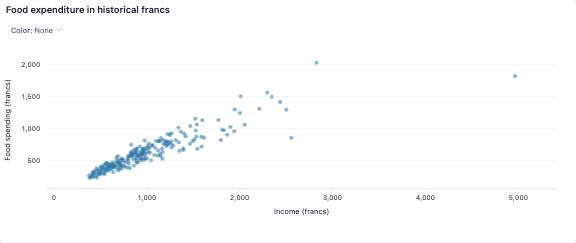
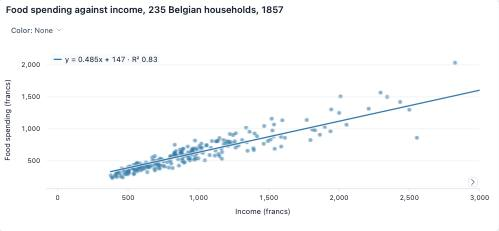
feat(daily): rewrite the Engel notebooks around Engel's law and weighting

diff --git a/apps/demo/public/daily-viz/projects/engel/weighting.eda.md b/apps/demo/public/daily-viz/projects/engel/weighting.eda.md
@@ -1,66 +1,51 @@
 # Food took 64% of all income, but more of the typical household's
 
-**Does the food share change when you weight by francs instead of households?** Each row is one income quartile.
+**What share of income went to food: 64% or 66%?** Each row is one income quartile of the 235 Belgian households in the 1857 Engel survey, with the quartile's total income, total food spending, and mean household food share. Pool every franc and food took 63.53% of income. Average the households and the mean food share was 65.58%. The two-point gap is the richest quartile's weight.
 
 ```eda
 eda query=bands
-income_band:cat=bands.income_band label="Income band"
+income_band:cat=bands.income_band label="Income quartile"
 households:num=bands.households label="Households"
 income_sum:num=bands.income_sum label="Total income (francs)"
 food_sum:num=bands.food_sum label="Total food spending (francs)"
-mean_share:num=bands.mean_share label="Mean share (%)"
-weighted_share:num=bands.weighted_share label="Weighted share (%)"
-order:num=bands.order label="Order"
+mean_share:num=bands.mean_share label="Mean household share (%)"
+weighted_share:num=bands.weighted_share label="Pooled share (%)"
+order:num=bands.order label="Quartile (1 = poorest)"
 ```
 
-## 1. Two legitimate shares for each income group
+## Inside a quartile, weighting barely matters
 
-Compare an equally weighted household mean with the group’s pooled-franc ratio. Their difference is about weights, not rounding.
+Two shares per quartile: the mean of its households' shares, and its pooled food francs over its pooled income francs. The lines almost coincide. In the poorest quartile the mean household share was 69.73%; in the richest it was 60.11%, and the richest quartile's pooled share was 58.85%. The gap opens only at the top, where incomes spread out.
 
 ```eda
-scatter @nb-engel-weighting-chart-1 x=mean_share y=weighted_share color=income_band title="Two legitimate shares for each income group" x.title="Mean share (%)" y.title="Weighted share (%)"
+line @nb-engel-weighting-chart-1 x=order y=mean_share,weighted_share title="Food share by income quartile, two ways of averaging" x.title="Income quartile (1 = poorest)" x.ticks=4 y.title="Food share of income (%)" {
+  rule y=63.53 "All households pooled"
+}
 ```
 
-## 2. Follow the groups from lower to higher income
+## The richest quarter held 42% of the francs
 
-The ordered line makes the comparison compact. The horizontal steps are quartile positions, not equal intervals of income.
+The pooled share is an income-weighted average, and here is the weighting. The richest quartile earned 42.12% of all income in the survey but spent 39.02% of all food francs. Pooling the whole survey hands that quartile, with the lowest food share, three times the weight of the poorest.
 
 ```eda
-line @nb-engel-weighting-chart-2 x=order y=mean_share,weighted_share title="Follow the groups from lower to higher income" x.title="Order" y.title="Mean share (%) / Weighted share (%)"
+group @income sum(income_sum) by=income_band
+row @nb-engel-weighting-chart-2 income_band group=income title="Total income by quartile, 235 households" x.title="Total income (francs)" {
+  callout "42% of all income" category="Q4 highest income" offset=-110,44
+}
 ```
 
-**Finding.** Food expenditure divided by pooled income was 63.53%.
+## The four rows that make the argument
 
-## 3. The denominators behind the ratio
-
-The group totals explain why a pooled ratio cannot be obtained by taking an unweighted mean of the four displayed ratios.
+Every number above comes from these four rows. Divide each quartile's food total by its income total to recover its pooled share; divide the grand totals to get 63.53%.
 
 ```eda
-scatter @nb-engel-weighting-chart-3 x=income_sum y=food_sum color=income_band title="The denominators behind the ratio" x.title="Total income (francs)" y.title="Total food spending (francs)"
-```
-
-## 4. How many households contribute to each group?
-
-Nearly equal group sizes are a consequence of the quartile construction. Exact counts remain necessary when reconstructing the household-weighted overall mean.
-
-```eda
-scatter @nb-engel-weighting-chart-4 x=order y=households title="How many households contribute to each group?" x.title="Order" y.title="Households"
-```
-
-**Finding.** The household-count-weighted mean of the quartile household means was 65.58%.
-
-## 5. The rows behind the charts
-
-Sort a column or select rows to check any value above. Selections in a notebook stay with their own chart.
-
-```eda
-table @nb-engel-weighting-records income_band,households,income_sum,food_sum,mean_share,weighted_share title="Records behind this comparison"
+table @nb-engel-weighting-chart-3 income_band,households,income_sum,food_sum,mean_share,weighted_share title="Income quartiles of the 1857 Engel survey"
 ```
 
 ## Takeaway
 
-A change of weights is a change of question. State the denominator on the chart and retain group totals so the weighted rate can be reconstructed rather than averaged incorrectly.
+Food took 64% of the survey's income and 66% of a typical household's: the difference is whether a rich household counts once or by its francs. Report the one that matches the question, and say which it is.
 
 ## Limits
 
-The grouping is based on sample income quartiles. Income-weighted ratios do not measure a typical household, while equally weighted means do not describe the allocation of all pooled income.
+Four summary rows of a 235-household survey. Quartiles are cut on this sample's incomes, with 58 or 59 households each. No prices, household sizes, or non-food categories are recorded.

diff --git a/apps/demo/public/daily-viz/projects/engel/food-and-income.eda.md b/apps/demo/public/daily-viz/projects/engel/food-and-income.eda.md
@@ -1,63 +1,45 @@
-# Food spending can rise while its income share falls
+# Food took 70% of a poor household's income and 62% of a rich one's
 
-**How do absolute food spending and the food budget share differ across these households?** Each row is one surveyed working-class household.
+**Do richer households spend more on food, or less?** Each row is one of 235 working-class Belgian households from an 1857 survey, with its yearly income and food spending in francs. Both answers are true, and that is Engel's law: richer households spent more francs on food and a smaller share of their income on it.
 
 ```eda
 eda query=r
 income:num=r.income label="Income (francs)"
 foodexp:num=r.foodexp label="Food spending (francs)"
-food_share:num=r.food_share label="Food share (%)"
-income_band:cat=r.income_band label="Income band"
+food_share:num=r.food_share label="Food share of income (%)"
+income_band:cat=r.income_band label="Income quartile"
 ```
 
-## 1. Food expenditure in historical francs
+## Every extra franc of income bought more food
 
-Both axes preserve the recorded monetary scale. More spending does not necessarily mean a larger fraction of the household budget.
+Each point is one household. The cloud follows the fitted line closely: income and food spending had correlation 0.911. The median household spent 583 francs on food in a year; the biggest food budget was 2,033 francs. The axis stops at 3,000 francs of income, which puts 1 household, the richest at 4,958 francs, off the right edge.
 
 ```eda
-scatter @nb-engel-food-and-income-chart-1 x=income y=foodexp opacity=0.6 title="Food expenditure in historical francs" x.title="Income (francs)" y.title="Food spending (francs)"
+scatter @nb-engel-food-and-income-chart-1 x=income y=foodexp opacity=0.6 regression=linear x.max=3000 title="Food spending against income, 235 Belgian households, 1857" x.title="Income (francs)" y.title="Food spending (francs)"
 ```
 
-## 2. Replace the amount with its income share
+## The share of income fell as income rose
 
-The vertical denominator is the same income shown horizontally. The mathematical coupling should be acknowledged before proposing an economic explanation.
+Replace the francs with the fraction of income they represent. The line tilts the other way: income and food share had correlation -0.416. Food was the dominant expense for nearly everyone: 94.5% of households spent more than half their income on it. The same household sits above the right edge here too.
 
 ```eda
-scatter @nb-engel-food-and-income-chart-2 x=income y=food_share opacity=0.6 title="Replace the amount with its income share" x.title="Income (francs)" y.title="Food share (%)"
+scatter @nb-engel-food-and-income-chart-2 x=income y=food_share opacity=0.6 regression=linear x.max=3000 title="Food share of income against income, 235 Belgian households, 1857" x.title="Income (francs)" y.title="Food share of income (%)" {
+  rule y=50 "Half of income"
+}
 ```
 
-**Finding.** Income and food expenditure had correlation 0.911.
+## From the poorest quarter to the richest, eight points
 
-## 3. Budget shares across income quartiles
-
-Quartiles improve readability but erase within-group ordering. They are defined from this sample, not external income thresholds.
+Split the households into income quartiles and compare the boxes. The median food share in the poorest quartile was 69.58%; in the richest quartile it was 61.83%. The two middle quartiles sit between them in order. The richest box is also the tallest: income freed from food went to different things in different households.
 
 ```eda
-boxplot @nb-engel-food-and-income-chart-3 food_share color=income_band title="Budget shares across income quartiles" y.title="Food share (%)"
-```
-
-## 4. The observed distribution of food shares
-
-The cumulative curve treats households equally. It answers a household question, not what fraction of all pooled francs was spent on food.
-
-```eda
-ecdf @nb-engel-food-and-income-chart-4 food_share direction=below title="The observed distribution of food shares" x.title="Food share (%)"
-```
-
-**Finding.** Income and food share had correlation -0.416.
-
-## 5. The rows behind the charts
-
-Sort a column or select rows to check any value above. Selections in a notebook stay with their own chart.
-
-```eda
-table @nb-engel-food-and-income-records income,foodexp,food_share,income_band title="Records behind this comparison"
+boxplot @nb-engel-food-and-income-chart-3 food_share color=income_band title="Food share of income by income quartile" y.title="Food share of income (%)"
 ```
 
 ## Takeaway
 
-Absolute spending and budget pressure are different measurements. Show the currency amount and the share together instead of declaring one the more truthful picture.
+In 1857 Belgium, a household that earned twice as much spent more on food but not twice as much, so its food share fell from about seven-tenths of income toward six-tenths. Both readings are right; the share is the one that says what the extra income was for.
 
 ## Limits
 
-The historical sample covers working-class Belgian households, not contemporary consumers. Household composition and other omitted factors may affect both income and food spending. Ratios share a denominator with income.
+Working-class households in one Belgian survey, with no record of household size or prices. The share divides food spending by the same income that sits on the horizontal axis, which pulls the second correlation negative on its own.
